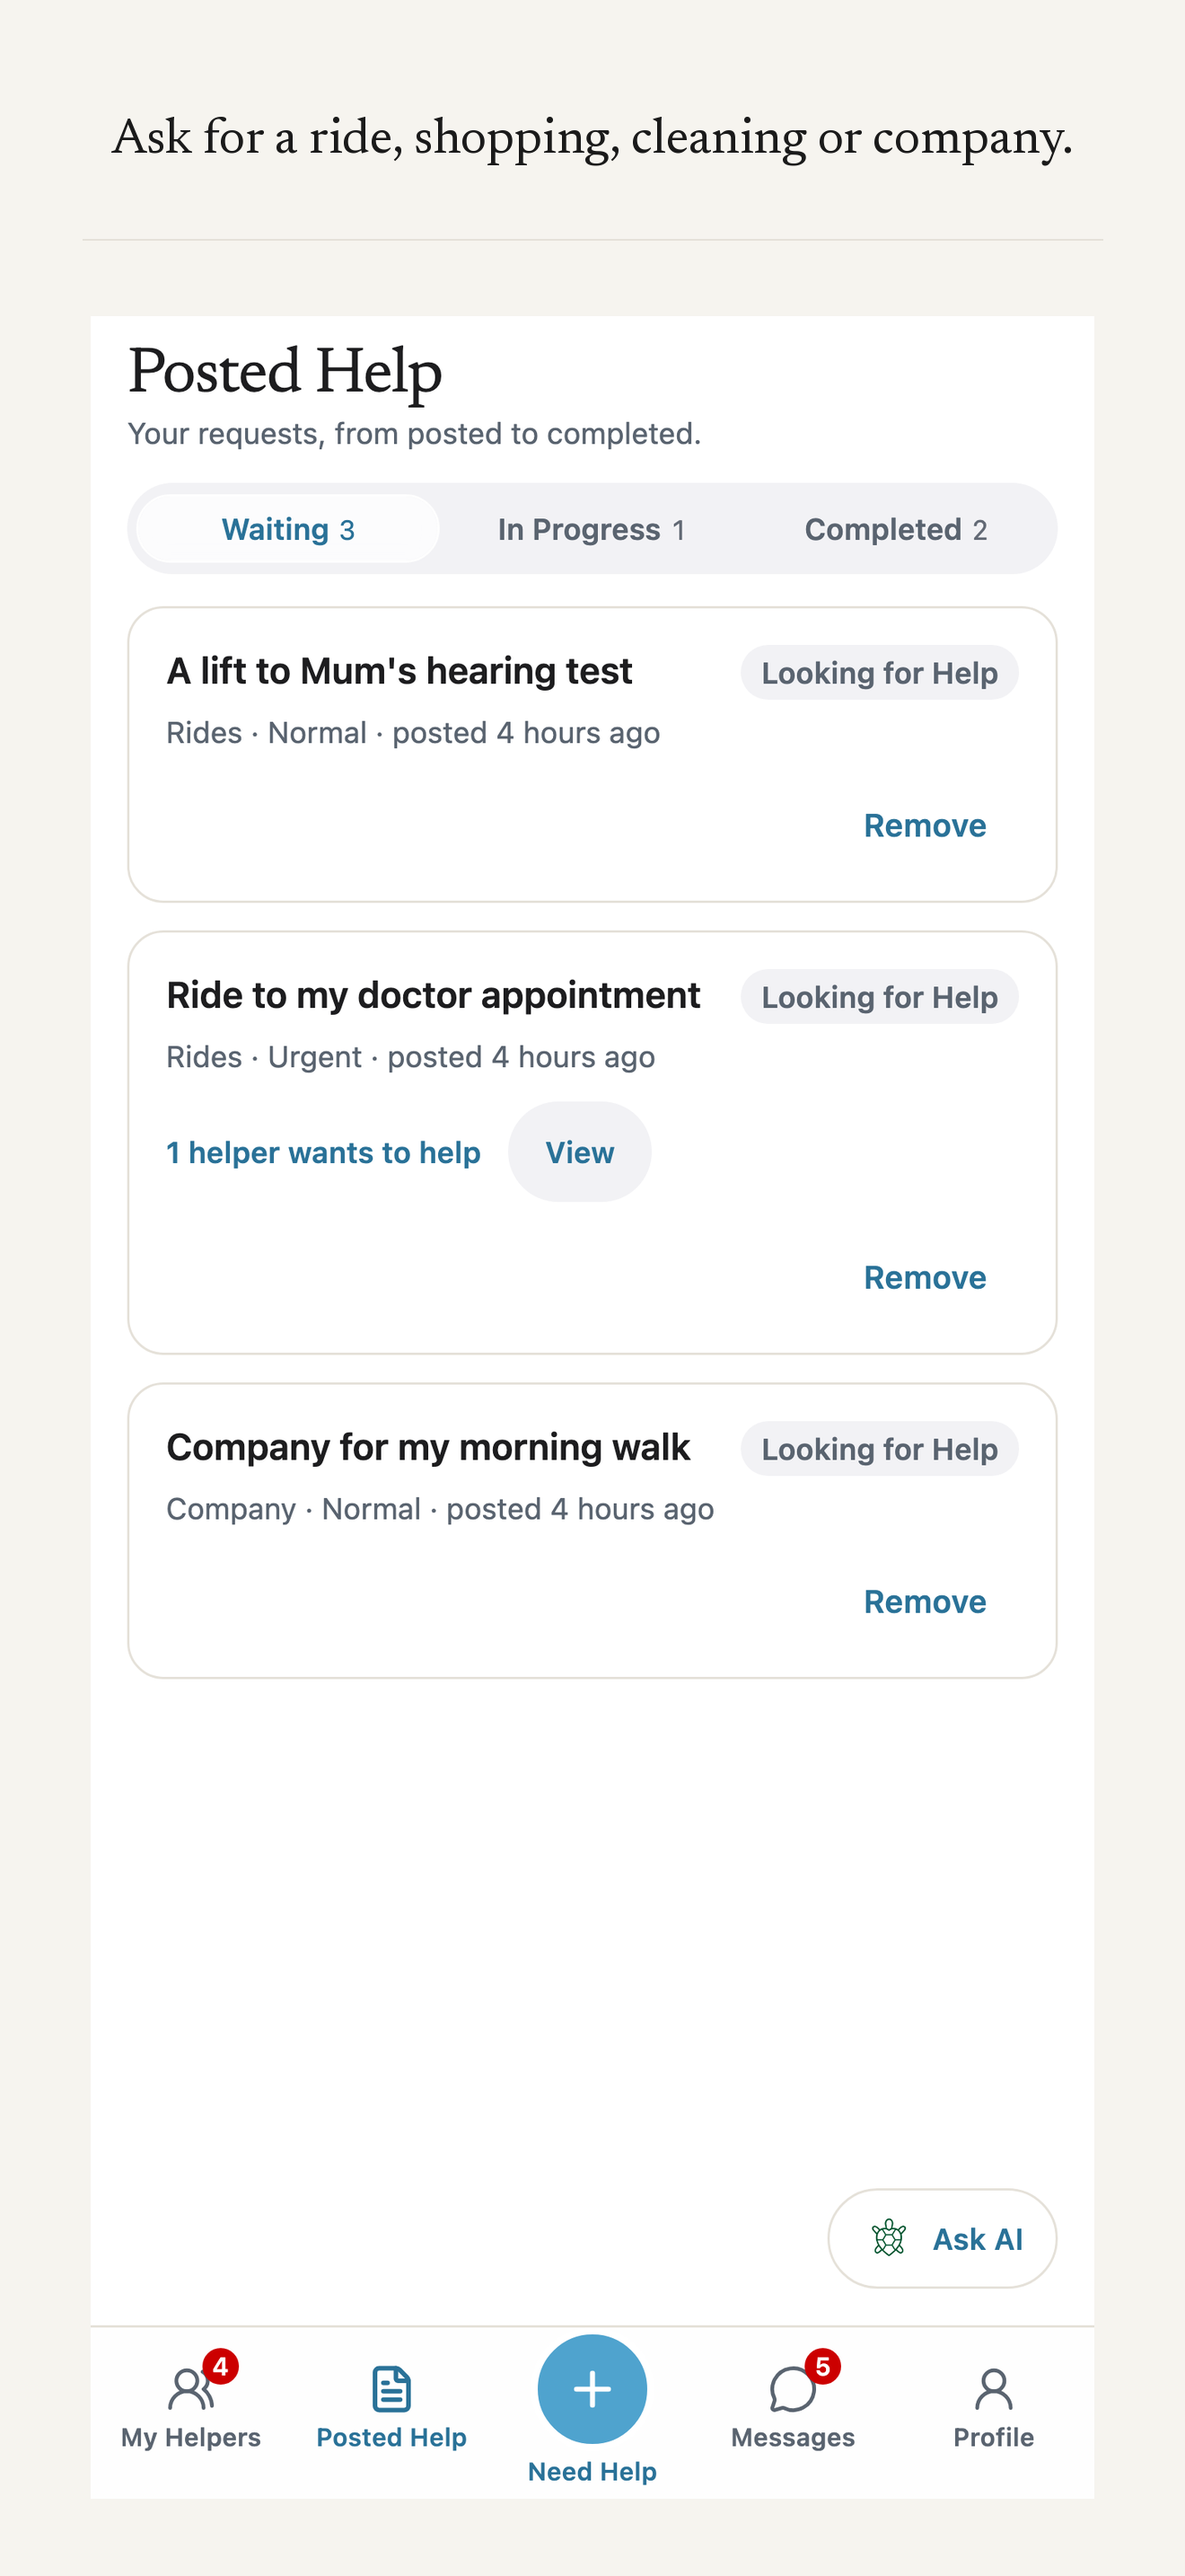
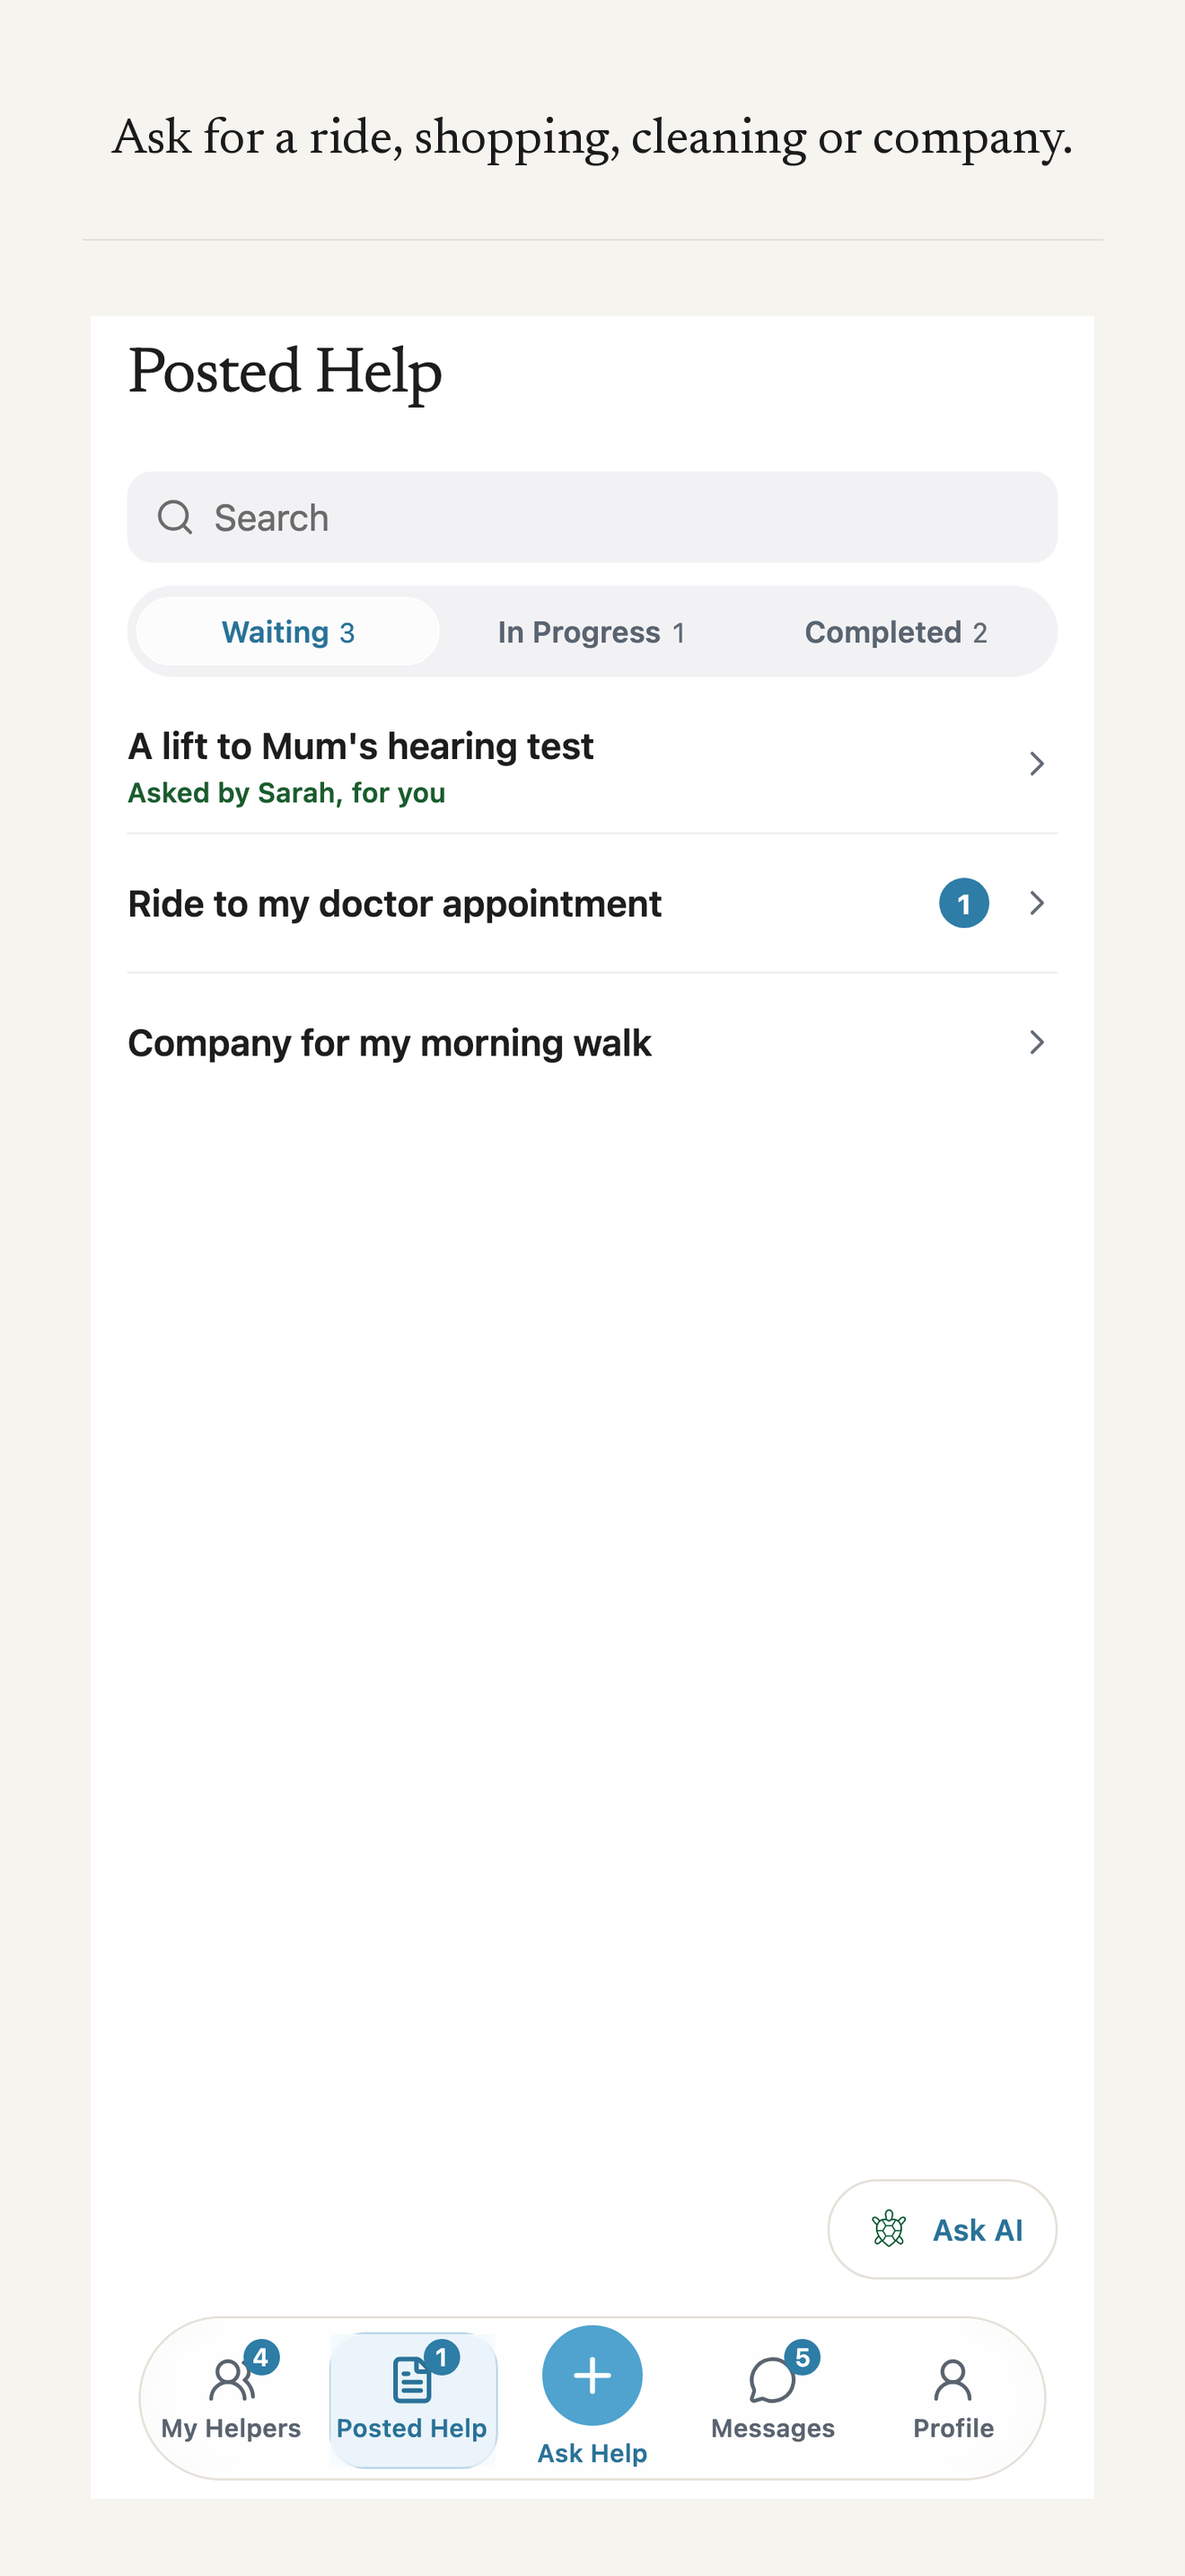
fix: [APS-04] - Bake all eight, verify them mechanically, and date the inventory
scripts/bake_screenshots.py re-made all sixteen store files from the eight
fresh raws and the pinned captions. Eight of the sixteen changed on disk, the
eight that come from the four raws that were genuinely stale: slots 2, 3, 5 and
7 in both sets. The other eight came back byte-identical because their raws
did.

Measured with sips, not by eye: every ios file is 1320 x 2868, every play file
1080 x 1920, and no file carries an alpha channel. Byte sizes are listed in the
inventory. npx jest store-screenshots passes, 23 tests.

The inventory now carries a dated 2026-08-29 section: what moved in the app
since 2026-08-22, which of the eight raws were replaced and which were not, and
the sixteen measurements. The 2026-08-11, 08-15 and 08-22 dates are struck
through rather than removed.

Two things are written down rather than fixed here. Slot 4 still bakes the
sentence APS-07 exists to change, so it needs re-shooting and re-baking when
that story lands. Slot 3's caption says "near you" while the frame says
"Showing every open request", because a headless browser hands over no
location.

diff --git a/docs/store/screenshot-inventory.md b/docs/store/screenshot-inventory.md
@@ -1,9 +1,14 @@
 # Store screenshots: what exists, what each one is for, what is still missing
 
-Captured 2026-08-11 from the live phone web build at `https://www.towinly.com/app`,
-signed in through the three demo seats on the login screen. No Xcode, no Android
-SDK and no physical phone were needed, which matters because this machine has
-Command Line Tools only.
+**Captured 2026-08-29** from the live phone web build at
+`https://www.towinly.com/app`, signed in through the three demo seats on the
+login screen. No Xcode, no Android SDK and no physical phone were needed, which
+matters because this machine has Command Line Tools only.
+
+Earlier capture dates, kept so a reader can see the order things happened in:
+~~Captured 2026-08-11~~ (raws 01 to 13), ~~2026-08-15~~ (raws 14 to 16, and the
+phone-scale re-shoot under APL-805), ~~2026-08-22~~ (the eight the manifest
+bakes from, HARD-117).
 
 Every raw capture is **1320 x 2868**, the iPhone 6.9 inch size Apple asks for.
 Play rejects anything taller than 9:16 and these are 1:2.17, so the baked Play
@@ -209,7 +214,10 @@ Raws 01 to 13 came from the build that was live on 2026-08-11, commit
 total, and none of them contains Edit Profile. The eight the manifest bakes from
 were replaced on 2026-08-22 from `ralph/store-hardening`.
 
-**The eight the manifest uses were RE-CAPTURED on 2026-08-22 (HARD-117.)**
+**~~The eight the manifest uses were RE-CAPTURED on 2026-08-22 (HARD-117.)~~**
+**Superseded 2026-08-29: the eight were re-captured again under APS-01 to APS-03,
+and the sixteen baked files re-made from them under APS-04. See the 2026-08-29
+sections below. The 2026-08-22 account is kept for the record.**
 They had gone stale twice over: the owner's normal-density redesign of
 2026-08-17 (`e1e56bf`) removed the elder oversizing, changed the type ramp and
 moved the cards to white, and the location run changed four more screens after
@@ -421,3 +429,75 @@ card.
 Towinly website. You cannot leave one from the app yet." APS-07 is the story
 that settles that wording. Whichever pass closes APS-07 has to re-shoot
 `raw-14` and re-bake slot 4, or the listing ships the old sentence.
+
+
+## The 2026-08-29 re-capture and bake (APS-01 to APS-04)
+
+The listing's eight shots were re-taken from the build live at commit `56bc83e`,
+the same tip TestFlight build 25 carries, and the sixteen store files were
+re-made from them with `python3 scripts/bake_screenshots.py`.
+
+**What had moved in the app since 2026-08-22**
+
+| Change | Shipped in | Which slots it reached |
+|---|---|---|
+| Posted Help requests became plain rows and gained a search field | around `7fcd0e0` | 2 |
+| Subtitle lines under tab headings removed | `7fcd0e0` | 2 |
+| Tab bar became the floating capsule, count badges red to blue | the tab-bar work after 2026-08-22 | 2, 3 |
+| Centre button relabelled "Need Help" to "Ask Help" | same | 2 |
+| The seeder reran, so request lines read "Posted just now" | data, not code | 3 |
+
+**Which of the eight raws were actually replaced**
+
+| Slot | Raw | Replaced | Note |
+|---|---|---|---|
+| 1 | `raw-13-landing-trust-ladder` | no | byte-identical (APS-01) |
+| 2 | `raw-07-posted-help` | yes | cards to rows, search field, no subtitle, new tab bar |
+| 3 | `raw-10-helper-offer-help` | yes | new tab bar, "Posted just now" |
+| 4 | `raw-14-helper-trust-score` | no | byte-identical (APS-03) |
+| 5 | `raw-15-chat-thread` | yes | re-shot; same thread, later clock times |
+| 6 | `raw-16-family-parent-checked-in` | no | byte-identical (APS-03) |
+| 7 | `raw-02-checkin` | yes | re-shot with the Refresh box collapsed |
+| 8 | `raw-12-landing-welcome` | no | byte-identical (APS-01) |
+
+Four of the eight were genuinely stale. Four were already the shipped UI and
+came back byte for byte, which is a result and not a skipped step.
+
+**Machine verification of the sixteen baked files, 2026-08-29**
+
+`sips -g pixelWidth -g pixelHeight -g hasAlpha` on every output, byte size from
+`stat -f%z`. Every ios file is 1320 x 2868, every play file 1080 x 1920, and no
+file carries an alpha channel.
+
+| File | Frame | Alpha | Bytes |
+|---|---|---|---|
+| `ios/01-landing-trust-ladder-ios.png` | 1320 x 2868 | no | 438,237 |
+| `ios/02-posted-help-ios.png` | 1320 x 2868 | no | 244,819 |
+| `ios/03-helper-offer-help-ios.png` | 1320 x 2868 | no | 470,651 |
+| `ios/04-helper-trust-score-ios.png` | 1320 x 2868 | no | 476,996 |
+| `ios/05-chat-thread-ios.png` | 1320 x 2868 | no | 244,557 |
+| `ios/06-family-parent-checked-in-ios.png` | 1320 x 2868 | no | 508,418 |
+| `ios/07-checkin-ios.png` | 1320 x 2868 | no | 288,177 |
+| `ios/08-landing-welcome-ios.png` | 1320 x 2868 | no | 245,277 |
+| `play/01-landing-trust-ladder-play.png` | 1080 x 1920 | no | 267,488 |
+| `play/02-posted-help-play.png` | 1080 x 1920 | no | 150,565 |
+| `play/03-helper-offer-help-play.png` | 1080 x 1920 | no | 281,883 |
+| `play/04-helper-trust-score-play.png` | 1080 x 1920 | no | 282,234 |
+| `play/05-chat-thread-play.png` | 1080 x 1920 | no | 154,229 |
+| `play/06-family-parent-checked-in-play.png` | 1080 x 1920 | no | 306,587 |
+| `play/07-checkin-play.png` | 1080 x 1920 | no | 177,374 |
+| `play/08-landing-welcome-play.png` | 1080 x 1920 | no | 150,813 |
+
+`npx jest store-screenshots` passes, 23 tests.
+
+**One slot is knowingly not final.** Slot 4 bakes `raw-14`, and that frame
+carries the sentence "Reviews are written on the Towinly website. You cannot
+leave one from the app yet." APS-07 is the story that settles that wording.
+When it lands, `raw-14` has to be re-shot and the bake re-run, or the listing
+ships a sentence the app no longer says.
+
+**One caption to look at before upload.** Slot 3 reads "See who needs a hand
+near you" while the frame reads "Showing every open request" with a 25 km chip,
+because a headless browser hands over no location and the list falls back to
+everything. On a phone that has granted location the same screen names the
+distance. The caption describes the feature and the frame shows its fallback.
